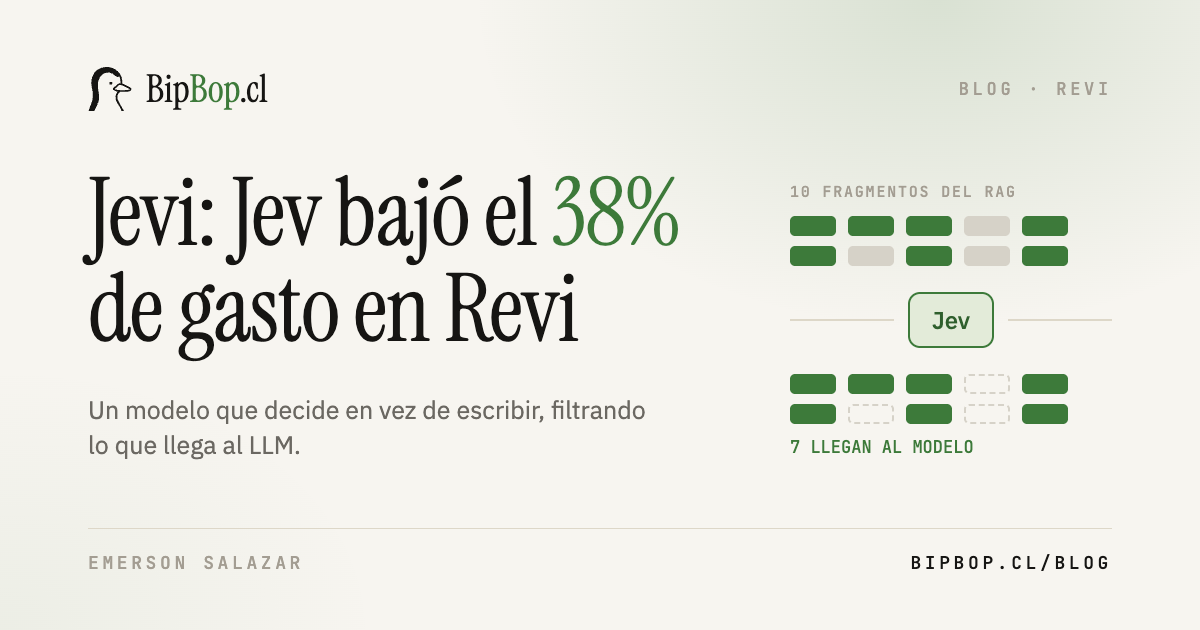
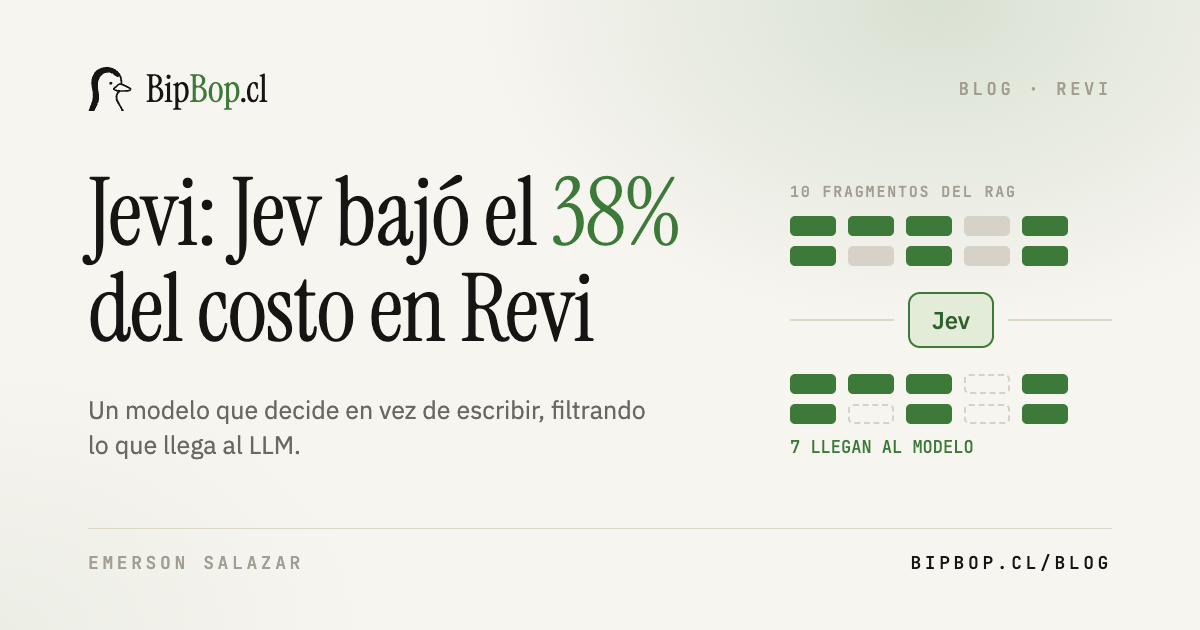
Say cost instead of spend in the Jev post title, keeping the old URL

Changed region(s): [[0.1233, 0.4222, 0.4933, 0.573]]

diff --git a/README.md b/README.md
@@ -56,6 +56,9 @@ Markdown normal (tablas, bloques de código, listas, citas).
   enlace. Si falta, se usa el primer párrafo.
 - `draft`: con `true` el post se ve solo con el enlace directo, con un marco
   rojo, y no aparece en `/blog` ni en buscadores. Para publicar, se borra.
+- `aliases`: opcional. Las URLs que tuvo el post antes de cambiarle el
+  título (`["titulo-viejo"]`), para que los enlaces ya compartidos redirijan
+  a la nueva.
 - `date`: opcional (`"2026-09-22"`). Sin esto, la fecha es la del primer
   commit de `index.md`.
 

diff --git a/posts/jev/index.md b/posts/jev/index.md
@@ -1,4 +1,4 @@
-# Jevi: Jev bajó el 38% de gasto en Revi
+# Jevi: Jev bajó el 38% del costo en Revi
 
 La semana del 18 (de septiembre), mientras me comía una empanada, se lanzó Jev. Un modelo que abrió un submundo para todos los que estamos trabajando desarrollando agentes.
 
